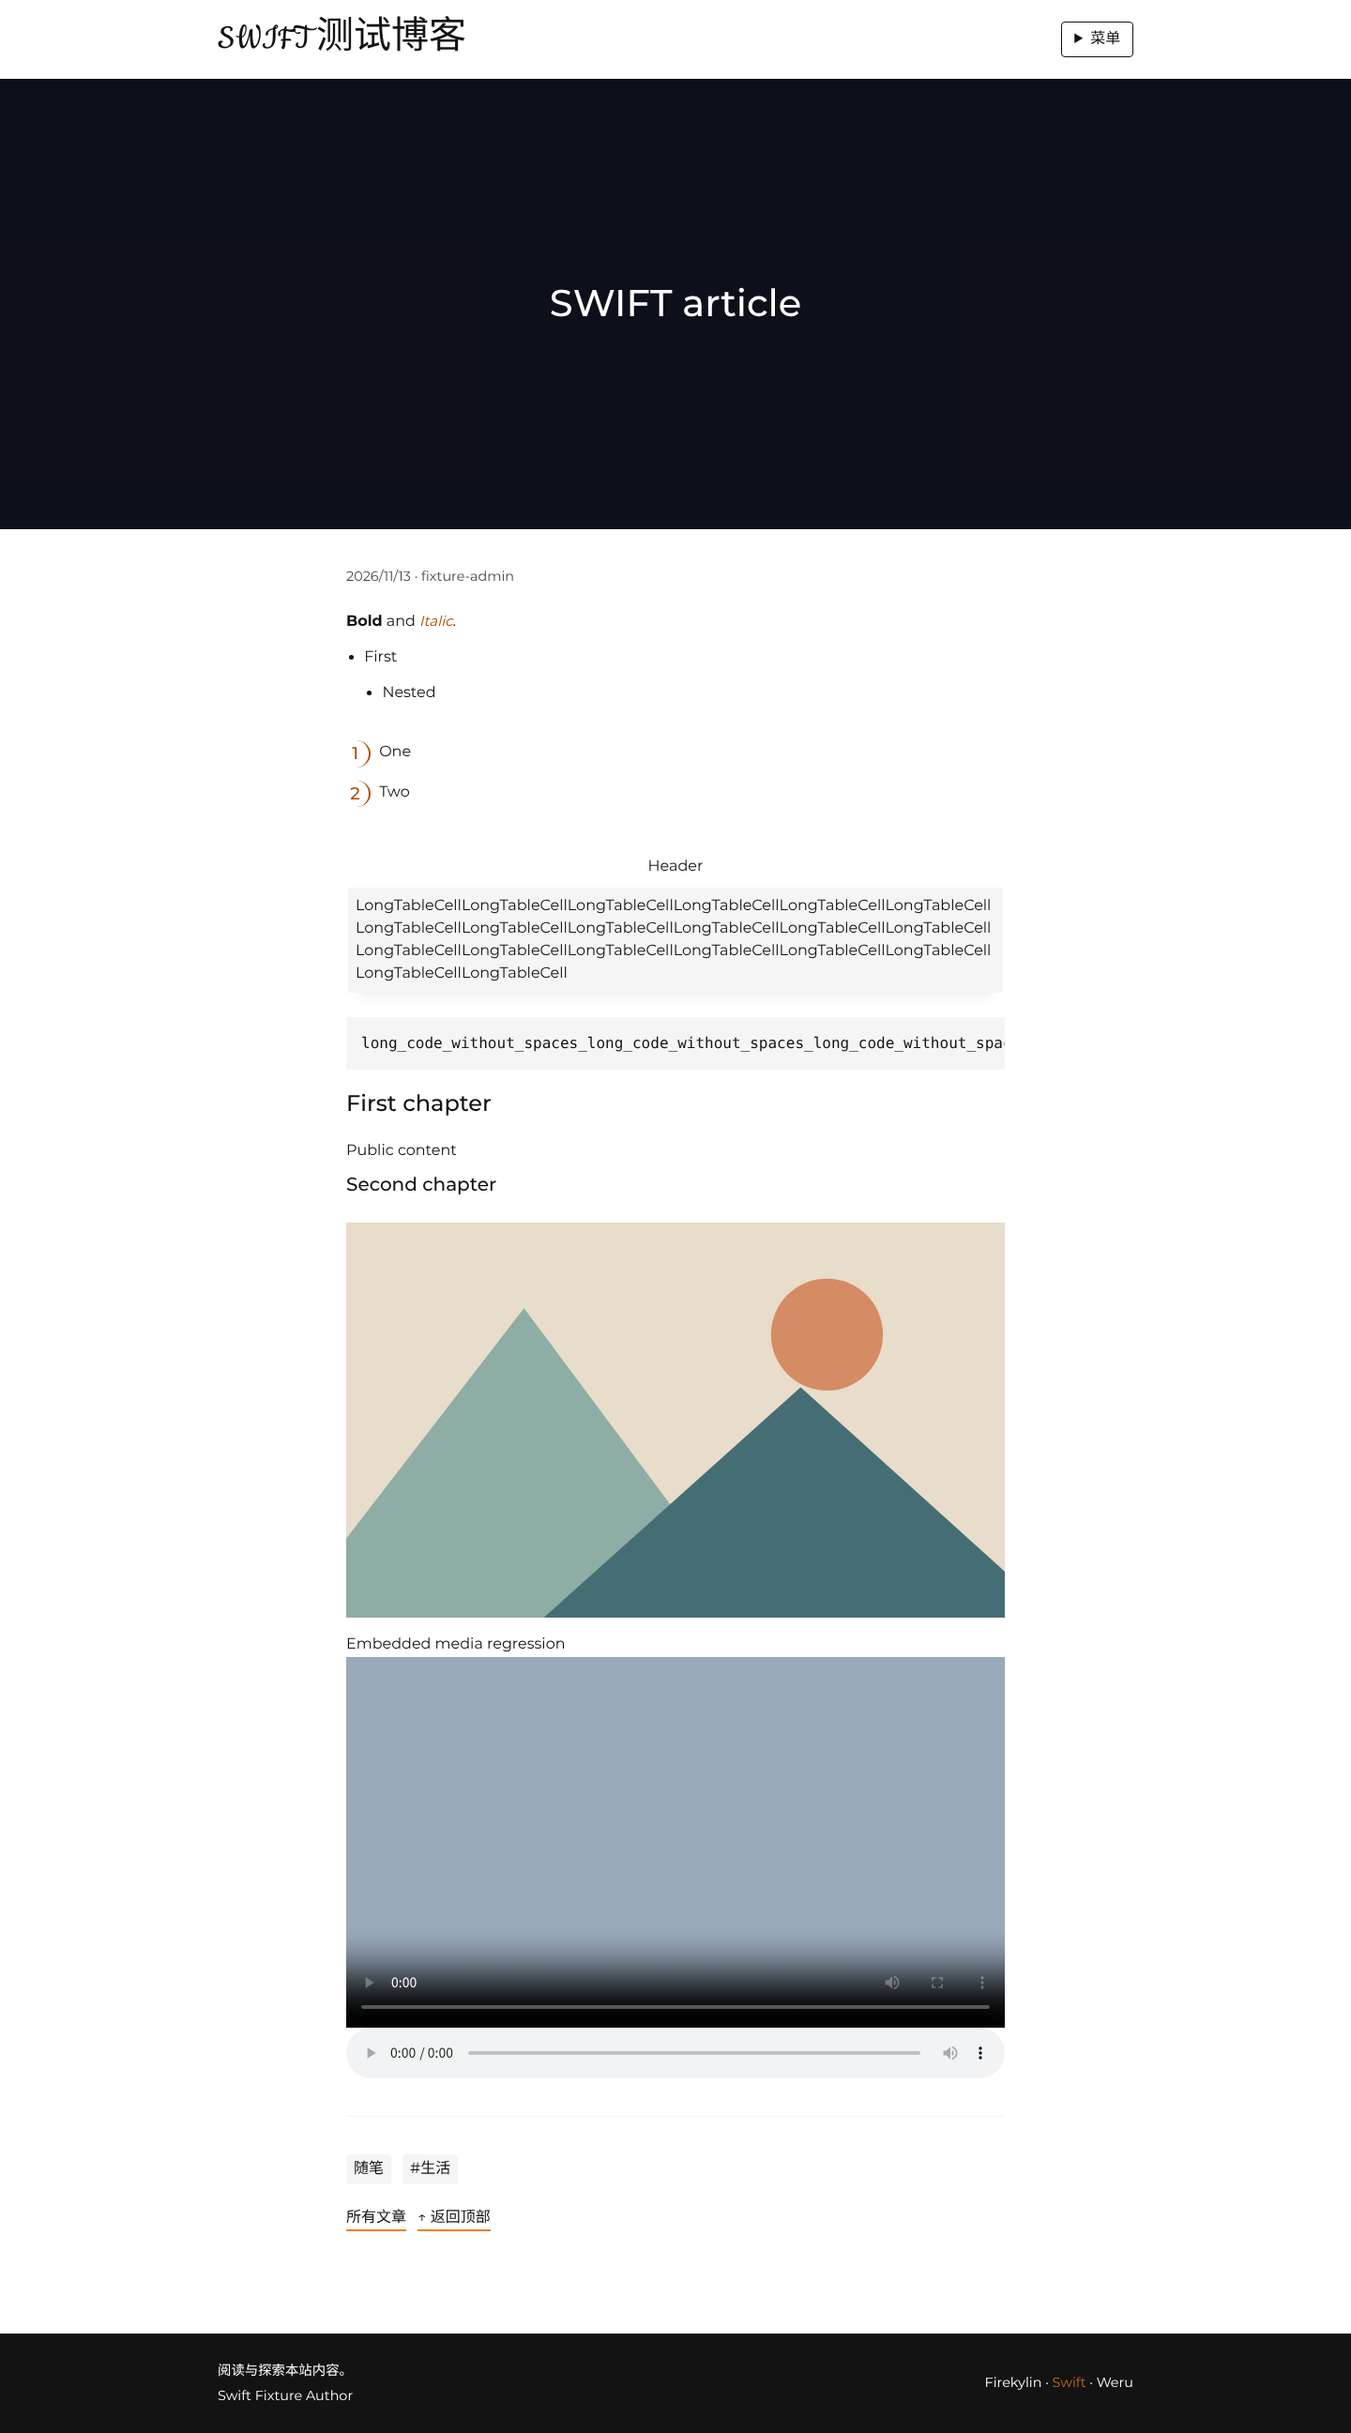
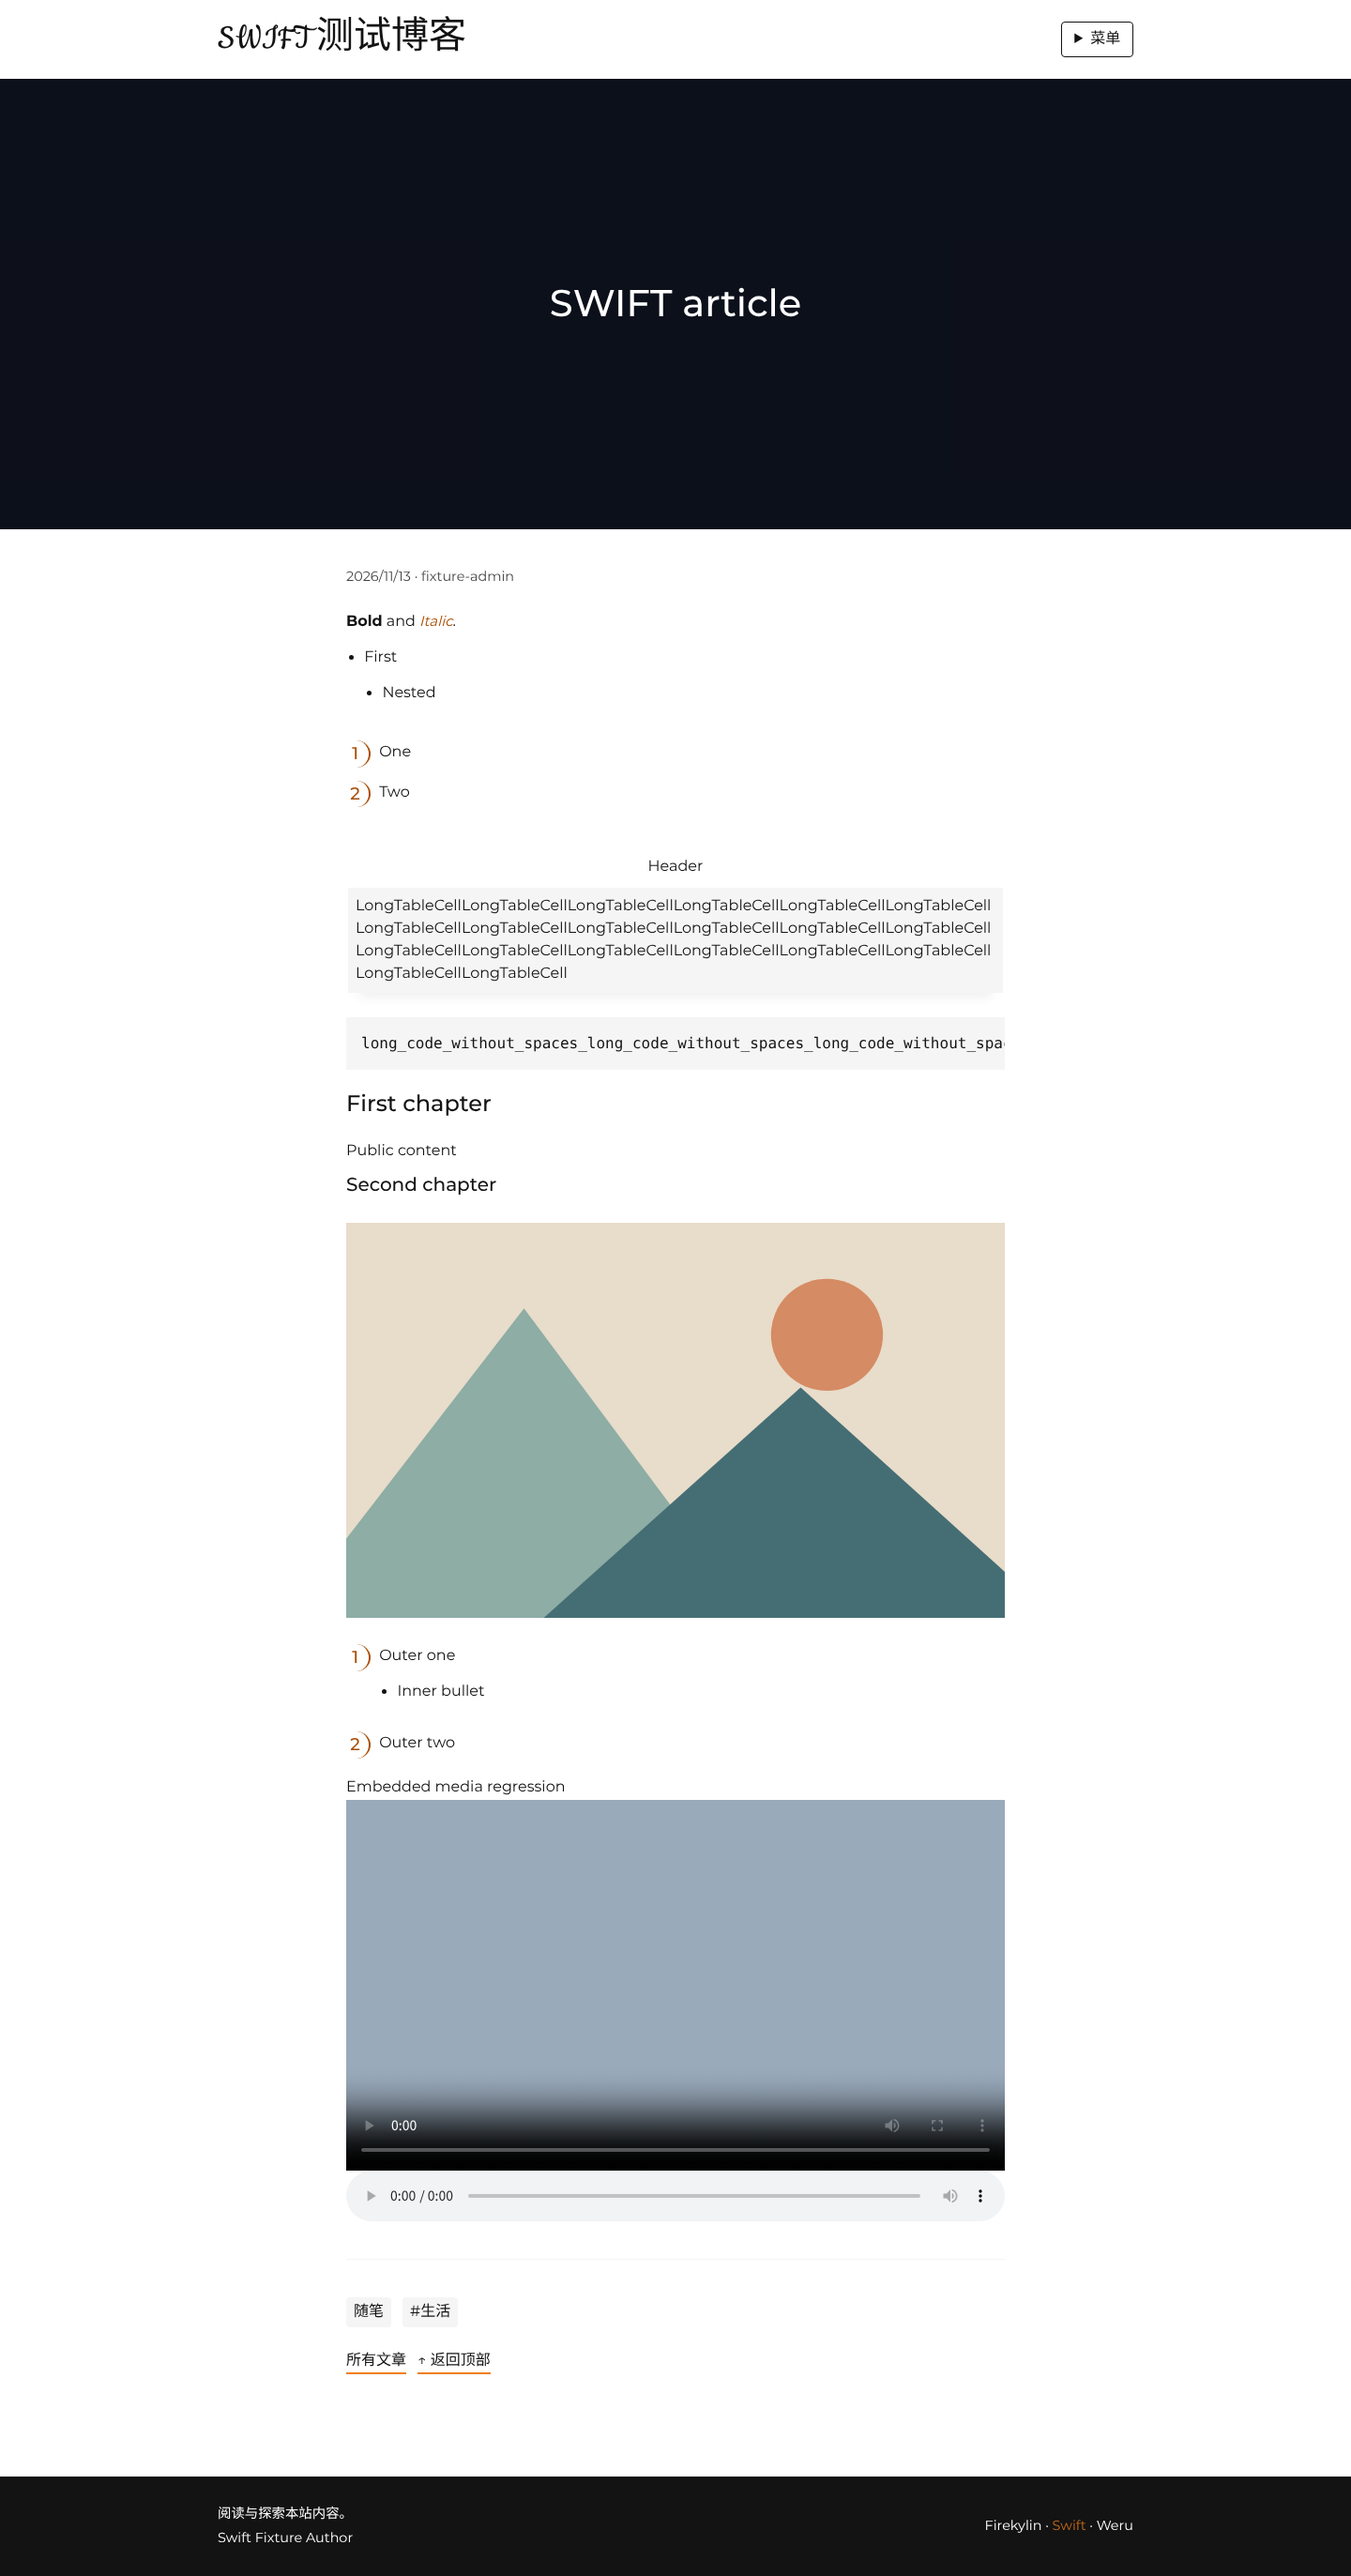
fix: scope Swift ordered counters to direct list children

diff --git a/packages/hugo-swift-theme/res/css/theme.css b/packages/hugo-swift-theme/res/css/theme.css
@@ -8,4 +8,4 @@ body{overflow-wrap:anywhere}.skip{position:absolute;top:-100px}.skip:focus{top:0
 
 .nav{position:relative}.nav-menu{gap:1rem;padding:.75rem 1.5rem}.nav-menu .nav-brand{padding:0;width:auto;min-width:0;font-size:2.5rem!important}.native-menu{position:relative;flex:none}.native-menu summary{cursor:pointer;padding:.4rem .8rem;border:1px solid var(--text);border-radius:.25rem}.native-menu .nav-body{display:none;position:absolute;top:100%;right:0;opacity:1;min-height:0;width:16rem;max-width:85vw;padding:.75rem;background:var(--accent);border-radius:.5rem;margin-top:.5rem;box-shadow:0 1rem 2rem #0002}.native-menu[open] .nav-body{display:block}.native-nav{margin:0;display:flex;flex-direction:column;gap:.25rem}.nav-menu .native-nav a{padding:.5rem .75rem;width:auto}.intro{margin-top:0}.intro_desc{margin-top:.75rem}.native-wave{display:block;width:320px;max-width:100%;height:80px;margin:0 auto 1rem}.native-posts{list-style:none!important}.native-posts .post_item{min-width:0;background:var(--bg)}.post_card{height:10rem}.post_card img{width:100%;height:100%;object-fit:cover;margin:0;display:block}.post_card:after{pointer-events:none}.excerpt{padding:1rem 1rem 1.5rem}.excerpt_meta{transform:none;min-height:0;margin:0 0 .75rem}.excerpt_meta:empty{display:none}.post_item.no-cover .excerpt{padding-top:1.5rem}.post_item .post_link{font-size:1.25rem;margin:.3rem 0 .75rem}.post_item .pale{font-size:.95rem}.post_tag{background:#a94c00}.post_header{margin-top:0;background:var(--dark);text-align:center}.native-hero-image{position:absolute;inset:0;width:100%;height:100%;object-fit:cover;margin:0;z-index:0}.post_header .post_title{font-size:2.5rem;line-height:1.3}.post_header .post_title,.post_header p{position:relative;z-index:2}.post-detail{max-width:750px;margin:1.5rem auto;padding:1rem 1.5rem}.prose{min-width:0}.prose strong,.prose b{font-weight:700}.prose pre{background:var(--accent);color:var(--text);padding:1rem;margin:1rem 0}.prose pre code{display:block;width:max-content;min-width:100%;white-space:pre}.prose table{display:table;table-layout:fixed;width:100%}.prose td,.prose th{overflow-wrap:anywhere}.prose audio{height:54px}.prose .heading-link{font-family:inherit;font-size:.7em;font-style:normal;margin-left:.5rem;border:0!important;opacity:0}.prose :is(h2,h3,h4):hover .heading-link,.prose .heading-link:focus{opacity:1}.post-date{font-size:.9rem;margin-bottom:1.5rem;opacity:.8}.native-page{max-width:1024px;margin:2rem auto;padding:0 1.5rem}.native-page .directory>ul{list-style:disc;padding-left:1.3rem}.native-page .directory li{margin:.5rem 0}.native-page .directory ul ul{padding-left:1.3rem}.native-page>h1{margin-bottom:1.5rem}.pagination{max-width:964px;margin:2rem auto;padding:0 1.5rem;align-items:center;flex-wrap:wrap}.pagination a{background:#a94c00;color:white;padding:.5rem 1rem;border-radius:2rem}.footer_inner{max-width:1024px;margin:auto;gap:1.5rem;align-items:center}.footer p{font-size:.9rem;margin:.3rem 0}.footer-credit{text-align:right}.post-footer{margin-top:2rem;border-top:1px solid var(--accent);padding-top:1rem}.tags a{background:var(--accent);padding:.25rem .5rem;border-radius:.25rem}.post-actions a{border-bottom:2px solid var(--theme)}input,button{color:var(--text);background:var(--bg);border:1px solid var(--text);border-radius:.25rem;padding:.4rem .6rem}.skip:focus{background:var(--bg);color:var(--text);padding:.5rem}.post_meta{opacity:1}body{overflow-wrap:anywhere}@media(max-width:666px){.posts:not(.aside){padding:0 1rem}.post_header{padding:1.5rem;min-height:260px;height:38vh}.post_header .post_title{font-size:1.8rem}.intro{padding:1.5rem 1rem}.intro_inner{padding:1.5rem 1rem}.intro_headline{font-size:1.7rem}.nav-menu{padding:.75rem 1rem}.post-detail{padding:1rem}.footer-credit{text-align:left}.native-page{padding:0 1rem}}@media(prefers-color-scheme:dark){.post_tag,.pagination a{background:#ef7f1a;color:#131313}}@media(prefers-reduced-motion:reduce){html,body{scroll-behavior:auto}*{transition:none!important}}
 
-.prose em,.prose i,.prose ol li::before{color:#a94c00}.prose ol li::before{border-color:#a94c00}@media(prefers-color-scheme:dark){.prose em,.prose i,.prose ol li::before{color:#ef7f1a}.prose ol li::before{border-color:#ef7f1a}}
+.prose em,.prose i,.prose ol > li::before{color:#a94c00}.prose ol > li::before{border-color:#a94c00}@media(prefers-color-scheme:dark){.prose em,.prose i,.prose ol > li::before{color:#ef7f1a}.prose ol > li::before{border-color:#ef7f1a}}

diff --git a/packages/hugo-swift-theme/res/css/upstream.css b/packages/hugo-swift-theme/res/css/upstream.css
@@ -210,13 +210,13 @@ ol {
   padding-left: 3rem;
   margin-left: 0.5rem;
 }
-ol li {
+ol > li {
   margin: 0 0 0.5rem 0;
   counter-increment: my-awesome-counter;
   position: relative;
   padding-left: 0.5rem !important;
 }
-ol li::before {
+ol > li::before {
   content: counter(my-awesome-counter);
   font-size: 1.15rem;
   display: inline-grid;
@@ -234,7 +234,7 @@ ol li::before {
   top: 0.25rem;
   border-right: 2px solid var(--theme);
 }
-ol li.align::before {
+ol > li.align::before {
   top: 1rem;
 }
 

diff --git a/packages/hugo-swift-theme/res/sass/_base.sass b/packages/hugo-swift-theme/res/sass/_base.sass
@@ -132,7 +132,7 @@ ol
   margin-left: 0.5rem
   @media screen and (min-width: 667px)
     // margin-left: 1rem
-  li
+  > li
     margin: 0 0 0.5rem 0
     counter-increment: my-awesome-counter
     position: relative
